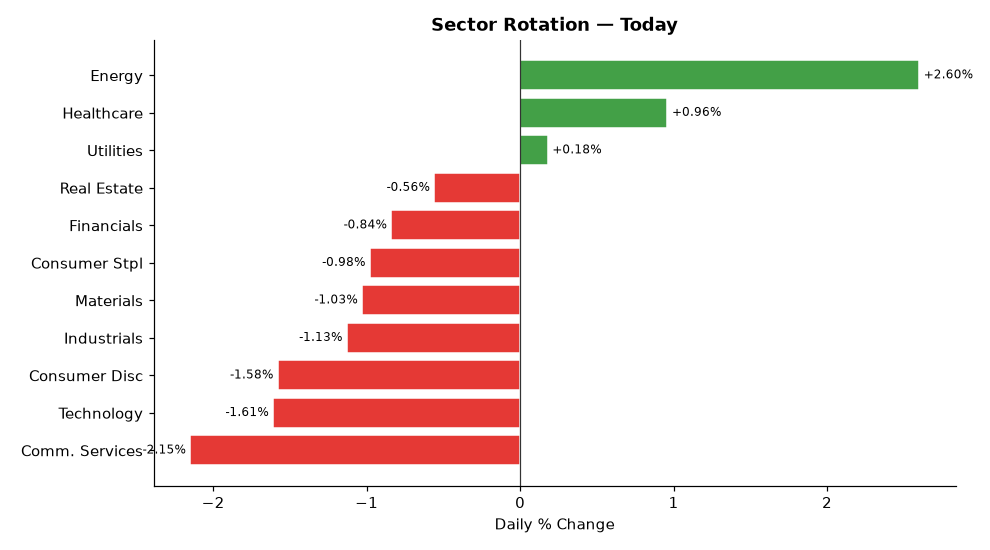
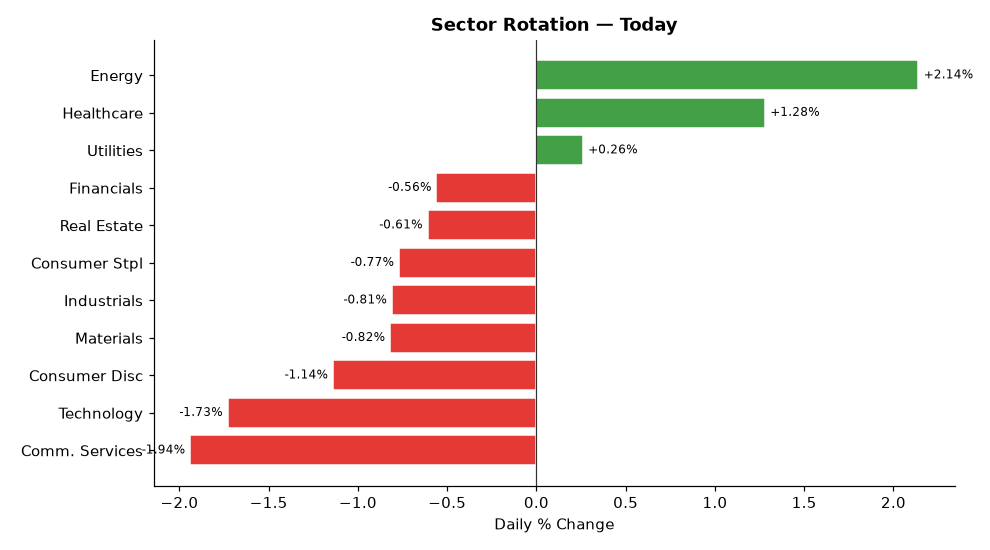
deploy: b7fadf5b06deb90e7ebb92f278722414bdd9750d

diff --git a/index.html b/index.html
@@ -4,7 +4,7 @@
   <meta charset="UTF-8">
   <meta name="viewport" content="width=device-width,initial-scale=1">
   <meta http-equiv="Cache-Control" content="no-cache,no-store,must-revalidate">
-  <title>Stock Breakout Screener — 2026-08-18 13:38</title>
+  <title>Stock Breakout Screener — 2026-08-18 14:03</title>
   <style>
     *{box-sizing:border-box;margin:0;padding:0}
     body{font-family:'Segoe UI',Arial,sans-serif;background:#f0f2f5;
@@ -34,7 +34,7 @@
 
 <div class="hdr">
   <h1>📈 Stock Breakout Screener</h1>
-  <p>Updated: 2026-08-18 13:38 UTC &nbsp;·&nbsp; Phase: Regular Market Hours &nbsp;·&nbsp;
+  <p>Updated: 2026-08-18 14:03 UTC &nbsp;·&nbsp; Phase: Regular Market Hours &nbsp;·&nbsp;
      129 stocks screened &nbsp;·&nbsp; Top 5 by conviction score</p>
 </div>
 
@@ -65,11 +65,11 @@
             <span style="margin-left:auto;background:#1a237e;color:#fff;
                          padding:3px 12px;border-radius:12px;
                          font-size:13px;font-weight:600">
-              10/17
+              11/17
             </span>
           </div>
           <ul style="margin:0;padding-left:18px;font-size:13px;
-                     color:#333;line-height:1.8"><li style="margin:5px 0"><span style="background:#ffebee;color:#b71c1c;padding:2px 7px;border-radius:4px;font-size:11px;">❌</span> Volume: <b>0.8× average</b> — Above-average activity</li><li style="margin:5px 0"><span style="background:#ffebee;color:#b71c1c;padding:2px 7px;border-radius:4px;font-size:11px;">❌</span> Candle: close <b>$200.00</b> vs open <b>$198.87</b> (+0.6%) — regular market close</li><li style="margin:5px 0"><span style="background:#e8f5e9;color:#2e7d32;padding:2px 7px;border-radius:4px;font-size:11px;">✅</span> 200-Day MA: price <b>$200.00</b> vs MA <b>$187.54</b> — <b>✅ Above</b> long-term trend</li><li style="margin:5px 0"><span style="background:#e8f5e9;color:#2e7d32;padding:2px 7px;border-radius:4px;font-size:11px;">✅</span> Inst. ownership: <b>71.1%</b> · MFI: <b>62.5</b> · Market cap: <b>$403.4B</b></li></ul>
+                     color:#333;line-height:1.8"><li style="margin:5px 0"><span style="background:#ffebee;color:#b71c1c;padding:2px 7px;border-radius:4px;font-size:11px;">❌</span> Volume: <b>0.8× average</b> — Above-average activity</li><li style="margin:5px 0"><span style="background:#ffebee;color:#b71c1c;padding:2px 7px;border-radius:4px;font-size:11px;">❌</span> Candle: close <b>$200.00</b> vs open <b>$198.87</b> (+0.6%) — regular market close</li><li style="margin:5px 0"><span style="background:#e8f5e9;color:#2e7d32;padding:2px 7px;border-radius:4px;font-size:11px;">✅</span> 200-Day MA: price <b>$200.00</b> vs MA <b>$187.53</b> — <b>✅ Above</b> long-term trend</li><li style="margin:5px 0"><span style="background:#e8f5e9;color:#2e7d32;padding:2px 7px;border-radius:4px;font-size:11px;">✅</span> Inst. ownership: <b>71.1%</b> · MFI: <b>62.7</b> · Market cap: <b>$400.8B</b></li></ul>
         </div>
         <div style="background:#fff;border:1px solid #ddd;border-radius:10px;
                     padding:16px 20px;margin-bottom:12px;
@@ -82,11 +82,11 @@
             <span style="margin-left:auto;background:#1a237e;color:#fff;
                          padding:3px 12px;border-radius:12px;
                          font-size:13px;font-weight:600">
-              10/17
+              11/17
             </span>
           </div>
           <ul style="margin:0;padding-left:18px;font-size:13px;
-                     color:#333;line-height:1.8"><li style="margin:5px 0"><span style="background:#ffebee;color:#b71c1c;padding:2px 7px;border-radius:4px;font-size:11px;">❌</span> Volume: <b>0.8× average</b> — Above-average activity</li><li style="margin:5px 0"><span style="background:#e8f5e9;color:#2e7d32;padding:2px 7px;border-radius:4px;font-size:11px;">✅</span> Candle: close <b>$514.39</b> vs open <b>$487.60</b> (+5.5%) — regular market close</li><li style="margin:5px 0"><span style="background:#e8f5e9;color:#2e7d32;padding:2px 7px;border-radius:4px;font-size:11px;">✅</span> 200-Day MA: price <b>$514.39</b> vs MA <b>$385.59</b> — <b>✅ Above</b> long-term trend</li><li style="margin:5px 0"><span style="background:#e8f5e9;color:#2e7d32;padding:2px 7px;border-radius:4px;font-size:11px;">✅</span> Inst. ownership: <b>75.4%</b> · MFI: <b>55.3</b> · Market cap: <b>$800.5B</b></li><li style="margin:5px 0"><span style="background:#e8f5e9;color:#2e7d32;padding:2px 7px;border-radius:4px;font-size:11px;">✅</span> Last similar breakout: <b>Apr 24, 2026</b> → <b>+30.9%</b> over 10 trading days</li></ul>
+                     color:#333;line-height:1.8"><li style="margin:5px 0"><span style="background:#ffebee;color:#b71c1c;padding:2px 7px;border-radius:4px;font-size:11px;">❌</span> Volume: <b>0.8× average</b> — Above-average activity</li><li style="margin:5px 0"><span style="background:#e8f5e9;color:#2e7d32;padding:2px 7px;border-radius:4px;font-size:11px;">✅</span> Candle: close <b>$514.39</b> vs open <b>$487.60</b> (+5.5%) — regular market close</li><li style="margin:5px 0"><span style="background:#e8f5e9;color:#2e7d32;padding:2px 7px;border-radius:4px;font-size:11px;">✅</span> 200-Day MA: price <b>$514.39</b> vs MA <b>$385.53</b> — <b>✅ Above</b> long-term trend</li><li style="margin:5px 0"><span style="background:#e8f5e9;color:#2e7d32;padding:2px 7px;border-radius:4px;font-size:11px;">✅</span> Inst. ownership: <b>75.4%</b> · MFI: <b>54.9</b> · Market cap: <b>$788.2B</b></li><li style="margin:5px 0"><span style="background:#e8f5e9;color:#2e7d32;padding:2px 7px;border-radius:4px;font-size:11px;">✅</span> Last similar breakout: <b>Apr 24, 2026</b> → <b>+30.9%</b> over 10 trading days</li></ul>
         </div>
         <div style="background:#fff;border:1px solid #ddd;border-radius:10px;
                     padding:16px 20px;margin-bottom:12px;
@@ -94,16 +94,16 @@
           <div style="display:flex;align-items:center;gap:10px;
                       flex-wrap:wrap;margin-bottom:10px">
             <span style="font-size:22px">🟡</span>
-            <span style="font-size:19px;font-weight:700">3. TRGP</span>
+            <span style="font-size:19px;font-weight:700">3. WMB</span>
             <span style="font-size:12px;color:#666">Energy</span>
             <span style="margin-left:auto;background:#1a237e;color:#fff;
                          padding:3px 12px;border-radius:12px;
                          font-size:13px;font-weight:600">
-              10/17
+              11/17
             </span>
           </div>
           <ul style="margin:0;padding-left:18px;font-size:13px;
-                     color:#333;line-height:1.8"><li style="margin:5px 0"><span style="background:#ffebee;color:#b71c1c;padding:2px 7px;border-radius:4px;font-size:11px;">❌</span> Volume: <b>0.2× average</b> — Above-average activity</li><li style="margin:5px 0"><span style="background:#e8f5e9;color:#2e7d32;padding:2px 7px;border-radius:4px;font-size:11px;">✅</span> Candle: close <b>$295.50</b> vs open <b>$276.85</b> (+6.7%) — regular market close</li><li style="margin:5px 0"><span style="background:#e8f5e9;color:#2e7d32;padding:2px 7px;border-radius:4px;font-size:11px;">✅</span> 200-Day MA: price <b>$295.50</b> vs MA <b>$254.38</b> — <b>✅ Above</b> long-term trend</li><li style="margin:5px 0"><span style="background:#e8f5e9;color:#2e7d32;padding:2px 7px;border-radius:4px;font-size:11px;">✅</span> Inst. ownership: <b>97.5%</b> · MFI: <b>48.3</b> · Market cap: <b>$63.4B</b></li></ul>
+                     color:#333;line-height:1.8"><li style="margin:5px 0"><span style="background:#ffebee;color:#b71c1c;padding:2px 7px;border-radius:4px;font-size:11px;">❌</span> Volume: <b>0.9× average</b> — Above-average activity</li><li style="margin:5px 0"><span style="background:#ffebee;color:#b71c1c;padding:2px 7px;border-radius:4px;font-size:11px;">❌</span> Candle: close <b>$75.20</b> vs open <b>$73.43</b> (+2.4%) — regular market close</li><li style="margin:5px 0"><span style="background:#e8f5e9;color:#2e7d32;padding:2px 7px;border-radius:4px;font-size:11px;">✅</span> 200-Day MA: price <b>$75.20</b> vs MA <b>$73.11</b> — <b>✅ Above</b> long-term trend</li><li style="margin:5px 0"><span style="background:#e8f5e9;color:#2e7d32;padding:2px 7px;border-radius:4px;font-size:11px;">✅</span> Inst. ownership: <b>91.5%</b> · MFI: <b>85.3</b> · Market cap: <b>$92.2B</b></li></ul>
         </div>
         <div style="background:#fff;border:1px solid #ddd;border-radius:10px;
                     padding:16px 20px;margin-bottom:12px;
@@ -111,16 +111,16 @@
           <div style="display:flex;align-items:center;gap:10px;
                       flex-wrap:wrap;margin-bottom:10px">
             <span style="font-size:22px">🟡</span>
-            <span style="font-size:19px;font-weight:700">4. WMB</span>
+            <span style="font-size:19px;font-weight:700">4. OKE</span>
             <span style="font-size:12px;color:#666">Energy</span>
             <span style="margin-left:auto;background:#1a237e;color:#fff;
                          padding:3px 12px;border-radius:12px;
                          font-size:13px;font-weight:600">
-              10/17
+              11/17
             </span>
           </div>
           <ul style="margin:0;padding-left:18px;font-size:13px;
-                     color:#333;line-height:1.8"><li style="margin:5px 0"><span style="background:#ffebee;color:#b71c1c;padding:2px 7px;border-radius:4px;font-size:11px;">❌</span> Volume: <b>0.9× average</b> — Above-average activity</li><li style="margin:5px 0"><span style="background:#ffebee;color:#b71c1c;padding:2px 7px;border-radius:4px;font-size:11px;">❌</span> Candle: close <b>$75.20</b> vs open <b>$73.43</b> (+2.4%) — regular market close</li><li style="margin:5px 0"><span style="background:#e8f5e9;color:#2e7d32;padding:2px 7px;border-radius:4px;font-size:11px;">✅</span> 200-Day MA: price <b>$75.20</b> vs MA <b>$73.12</b> — <b>✅ Above</b> long-term trend</li><li style="margin:5px 0"><span style="background:#e8f5e9;color:#2e7d32;padding:2px 7px;border-radius:4px;font-size:11px;">✅</span> Inst. ownership: <b>91.5%</b> · MFI: <b>85.3</b> · Market cap: <b>$92.3B</b></li></ul>
+                     color:#333;line-height:1.8"><li style="margin:5px 0"><span style="background:#ffebee;color:#b71c1c;padding:2px 7px;border-radius:4px;font-size:11px;">❌</span> Volume: <b>0.6× average</b> — Above-average activity</li><li style="margin:5px 0"><span style="background:#ffebee;color:#b71c1c;padding:2px 7px;border-radius:4px;font-size:11px;">❌</span> Candle: close <b>$94.99</b> vs open <b>$93.50</b> (+1.6%) — regular market close</li><li style="margin:5px 0"><span style="background:#e8f5e9;color:#2e7d32;padding:2px 7px;border-radius:4px;font-size:11px;">✅</span> 200-Day MA: price <b>$94.99</b> vs MA <b>$87.17</b> — <b>✅ Above</b> long-term trend</li><li style="margin:5px 0"><span style="background:#e8f5e9;color:#2e7d32;padding:2px 7px;border-radius:4px;font-size:11px;">✅</span> Inst. ownership: <b>84.8%</b> · MFI: <b>66.4</b> · Market cap: <b>$61.0B</b></li></ul>
         </div>
         <div style="background:#fff;border:1px solid #ddd;border-radius:10px;
                     padding:16px 20px;margin-bottom:12px;
@@ -128,16 +128,16 @@
           <div style="display:flex;align-items:center;gap:10px;
                       flex-wrap:wrap;margin-bottom:10px">
             <span style="font-size:22px">🟡</span>
-            <span style="font-size:19px;font-weight:700">5. OKE</span>
+            <span style="font-size:19px;font-weight:700">5. KMI</span>
             <span style="font-size:12px;color:#666">Energy</span>
             <span style="margin-left:auto;background:#1a237e;color:#fff;
                          padding:3px 12px;border-radius:12px;
                          font-size:13px;font-weight:600">
-              10/17
+              11/17
             </span>
           </div>
           <ul style="margin:0;padding-left:18px;font-size:13px;
-                     color:#333;line-height:1.8"><li style="margin:5px 0"><span style="background:#ffebee;color:#b71c1c;padding:2px 7px;border-radius:4px;font-size:11px;">❌</span> Volume: <b>0.6× average</b> — Above-average activity</li><li style="margin:5px 0"><span style="background:#ffebee;color:#b71c1c;padding:2px 7px;border-radius:4px;font-size:11px;">❌</span> Candle: close <b>$94.99</b> vs open <b>$93.50</b> (+1.6%) — regular market close</li><li style="margin:5px 0"><span style="background:#e8f5e9;color:#2e7d32;padding:2px 7px;border-radius:4px;font-size:11px;">✅</span> 200-Day MA: price <b>$94.99</b> vs MA <b>$87.18</b> — <b>✅ Above</b> long-term trend</li><li style="margin:5px 0"><span style="background:#e8f5e9;color:#2e7d32;padding:2px 7px;border-radius:4px;font-size:11px;">✅</span> Inst. ownership: <b>84.8%</b> · MFI: <b>66.2</b> · Market cap: <b>$61.6B</b></li></ul>
+                     color:#333;line-height:1.8"><li style="margin:5px 0"><span style="background:#ffebee;color:#b71c1c;padding:2px 7px;border-radius:4px;font-size:11px;">❌</span> Volume: <b>0.8× average</b> — Above-average activity</li><li style="margin:5px 0"><span style="background:#ffebee;color:#b71c1c;padding:2px 7px;border-radius:4px;font-size:11px;">❌</span> Candle: close <b>$32.82</b> vs open <b>$32.23</b> (+1.8%) — regular market close</li><li style="margin:5px 0"><span style="background:#e8f5e9;color:#2e7d32;padding:2px 7px;border-radius:4px;font-size:11px;">✅</span> 200-Day MA: price <b>$32.82</b> vs MA <b>$32.04</b> — <b>✅ Above</b> long-term trend</li><li style="margin:5px 0"><span style="background:#e8f5e9;color:#2e7d32;padding:2px 7px;border-radius:4px;font-size:11px;">✅</span> Inst. ownership: <b>70.9%</b> · MFI: <b>60.4</b> · Market cap: <b>$73.1B</b></li></ul>
         </div>
 
 
@@ -176,13 +176,13 @@
           <td style="background:#c8e6c9">
             71.1%</td>
           <td style="background:#c8e6c9">
-            62.5</td>
+            62.7</td>
           <td style="background:#c8e6c9">Energy</td>
-          <td style="background:#ffcdd2">
-            11.5%</td>
+          <td style="background:#c8e6c9">
+            101.1%</td>
           <td style="background:#ffcdd2">
             N/A</td>
-          <td style="font-weight:800;font-size:15px">10/17</td>
+          <td style="font-weight:800;font-size:15px">11/17</td>
         </tr>
         <tr>
           <td style="font-weight:700;text-align:left;padding-left:10px">
@@ -194,31 +194,13 @@
           <td style="background:#c8e6c9">
             75.4%</td>
           <td style="background:#fff9c4">
-            55.3</td>
+            54.9</td>
           <td style="background:#ffcdd2">Technology</td>
-          <td style="background:#fff9c4">
-            24.0%</td>
+          <td style="background:#c8e6c9">
+            119.9%</td>
           <td style="background:#c8e6c9">
             +30.9%</td>
-          <td style="font-weight:800;font-size:15px">10/17</td>
-        </tr>
-        <tr>
-          <td style="font-weight:700;text-align:left;padding-left:10px">
-            🟡 TRGP</td>
-          <td style="background:#ffcdd2">0.2×</td>
-          <td style="background:#c8e6c9">+6.7%</td>
-          <td style="background:#c8e6c9">
-            ▲ Above</td>
-          <td style="background:#c8e6c9">
-            97.5%</td>
-          <td style="background:#ffcdd2">
-            48.3</td>
-          <td style="background:#c8e6c9">Energy</td>
-          <td style="background:#ffcdd2">
-            5.2%</td>
-          <td style="background:#ffcdd2">
-            N/A</td>
-          <td style="font-weight:800;font-size:15px">10/17</td>
+          <td style="font-weight:800;font-size:15px">11/17</td>
         </tr>
         <tr>
           <td style="font-weight:700;text-align:left;padding-left:10px">
@@ -232,11 +214,11 @@
           <td style="background:#c8e6c9">
             85.3</td>
           <td style="background:#c8e6c9">Energy</td>
-          <td style="background:#ffcdd2">
-            13.0%</td>
+          <td style="background:#c8e6c9">
+            129.3%</td>
           <td style="background:#ffcdd2">
             N/A</td>
-          <td style="font-weight:800;font-size:15px">10/17</td>
+          <td style="font-weight:800;font-size:15px">11/17</td>
         </tr>
         <tr>
           <td style="font-weight:700;text-align:left;padding-left:10px">
@@ -248,13 +230,31 @@
           <td style="background:#c8e6c9">
             84.8%</td>
           <td style="background:#c8e6c9">
-            66.2</td>
+            66.4</td>
           <td style="background:#c8e6c9">Energy</td>
-          <td style="background:#ffcdd2">
-            9.1%</td>
+          <td style="background:#c8e6c9">
+            147.1%</td>
           <td style="background:#ffcdd2">
             N/A</td>
-          <td style="font-weight:800;font-size:15px">10/17</td>
+          <td style="font-weight:800;font-size:15px">11/17</td>
+        </tr>
+        <tr>
+          <td style="font-weight:700;text-align:left;padding-left:10px">
+            🟡 KMI</td>
+          <td style="background:#ffcdd2">0.8×</td>
+          <td style="background:#ffcdd2">+1.8%</td>
+          <td style="background:#c8e6c9">
+            ▲ Above</td>
+          <td style="background:#c8e6c9">
+            70.9%</td>
+          <td style="background:#c8e6c9">
+            60.4</td>
+          <td style="background:#c8e6c9">Energy</td>
+          <td style="background:#c8e6c9">
+            67.8%</td>
+          <td style="background:#ffcdd2">
+            N/A</td>
+          <td style="font-weight:800;font-size:15px">11/17</td>
         </tr>
 </table>
 </div>
@@ -278,57 +278,57 @@
         <tr>
           <td style="text-align:left;padding-left:10px;font-weight:600">
             #1 Energy</td>
-          <td style="background:#e8f5e9;color:#2e7d32;font-weight:700">+2.60%</td>
+          <td style="background:#e8f5e9;color:#2e7d32;font-weight:700">+2.14%</td>
         </tr>
         <tr>
           <td style="text-align:left;padding-left:10px;font-weight:600">
             #2 Healthcare</td>
-          <td style="background:#e8f5e9;color:#2e7d32;font-weight:700">+0.96%</td>
+          <td style="background:#e8f5e9;color:#2e7d32;font-weight:700">+1.28%</td>
         </tr>
         <tr>
           <td style="text-align:left;padding-left:10px;font-weight:600">
             #3 Utilities</td>
-          <td style="background:#e8f5e9;color:#2e7d32;font-weight:700">+0.18%</td>
+          <td style="background:#e8f5e9;color:#2e7d32;font-weight:700">+0.26%</td>
         </tr>
         <tr>
           <td style="text-align:left;padding-left:10px;font-weight:600">
-            #4 Real Estate</td>
+            #4 Financials</td>
           <td style="background:#ffebee;color:#c62828;font-weight:700">-0.56%</td>
         </tr>
         <tr>
           <td style="text-align:left;padding-left:10px;font-weight:600">
-            #5 Financials</td>
-          <td style="background:#ffebee;color:#c62828;font-weight:700">-0.84%</td>
+            #5 Real Estate</td>
+          <td style="background:#ffebee;color:#c62828;font-weight:700">-0.61%</td>
         </tr>
         <tr>
           <td style="text-align:left;padding-left:10px;font-weight:600">
             #6 Consumer Stpl</td>
-          <td style="background:#ffebee;color:#c62828;font-weight:700">-0.98%</td>
+          <td style="background:#ffebee;color:#c62828;font-weight:700">-0.77%</td>
         </tr>
         <tr>
           <td style="text-align:left;padding-left:10px;font-weight:600">
-            #7 Materials</td>
-          <td style="background:#ffebee;color:#c62828;font-weight:700">-1.03%</td>
+            #7 Industrials</td>
+          <td style="background:#ffebee;color:#c62828;font-weight:700">-0.81%</td>
         </tr>
         <tr>
           <td style="text-align:left;padding-left:10px;font-weight:600">
-            #8 Industrials</td>
-          <td style="background:#ffebee;color:#c62828;font-weight:700">-1.13%</td>
+            #8 Materials</td>
+          <td style="background:#ffebee;color:#c62828;font-weight:700">-0.82%</td>
         </tr>
         <tr>
           <td style="text-align:left;padding-left:10px;font-weight:600">
             #9 Consumer Disc</td>
-          <td style="background:#ffebee;color:#c62828;font-weight:700">-1.58%</td>
+          <td style="background:#ffebee;color:#c62828;font-weight:700">-1.14%</td>
         </tr>
         <tr>
           <td style="text-align:left;padding-left:10px;font-weight:600">
             #10 Technology</td>
-          <td style="background:#ffebee;color:#c62828;font-weight:700">-1.61%</td>
+          <td style="background:#ffebee;color:#c62828;font-weight:700">-1.73%</td>
         </tr>
         <tr>
           <td style="text-align:left;padding-left:10px;font-weight:600">
             #11 Comm. Services</td>
-          <td style="background:#ffebee;color:#c62828;font-weight:700">-2.15%</td>
+          <td style="background:#ffebee;color:#c62828;font-weight:700">-1.94%</td>
         </tr>
     </table>
   </div>
@@ -367,7 +367,7 @@
         <li><b>Scoring weights:</b>
             Inst.Own(3) · Sector(3) · Volume(2) · Breakout(2) ·
             MA200(2) · MFI(2) · History(2) · IV(1) = 17pts max</li>
-        <li><b>Run time:</b> 2026-08-18 13:38 UTC — Market phase: Regular Market Hours</li>
+        <li><b>Run time:</b> 2026-08-18 14:03 UTC — Market phase: Regular Market Hours</li>
       </ul>
     </div>
 
